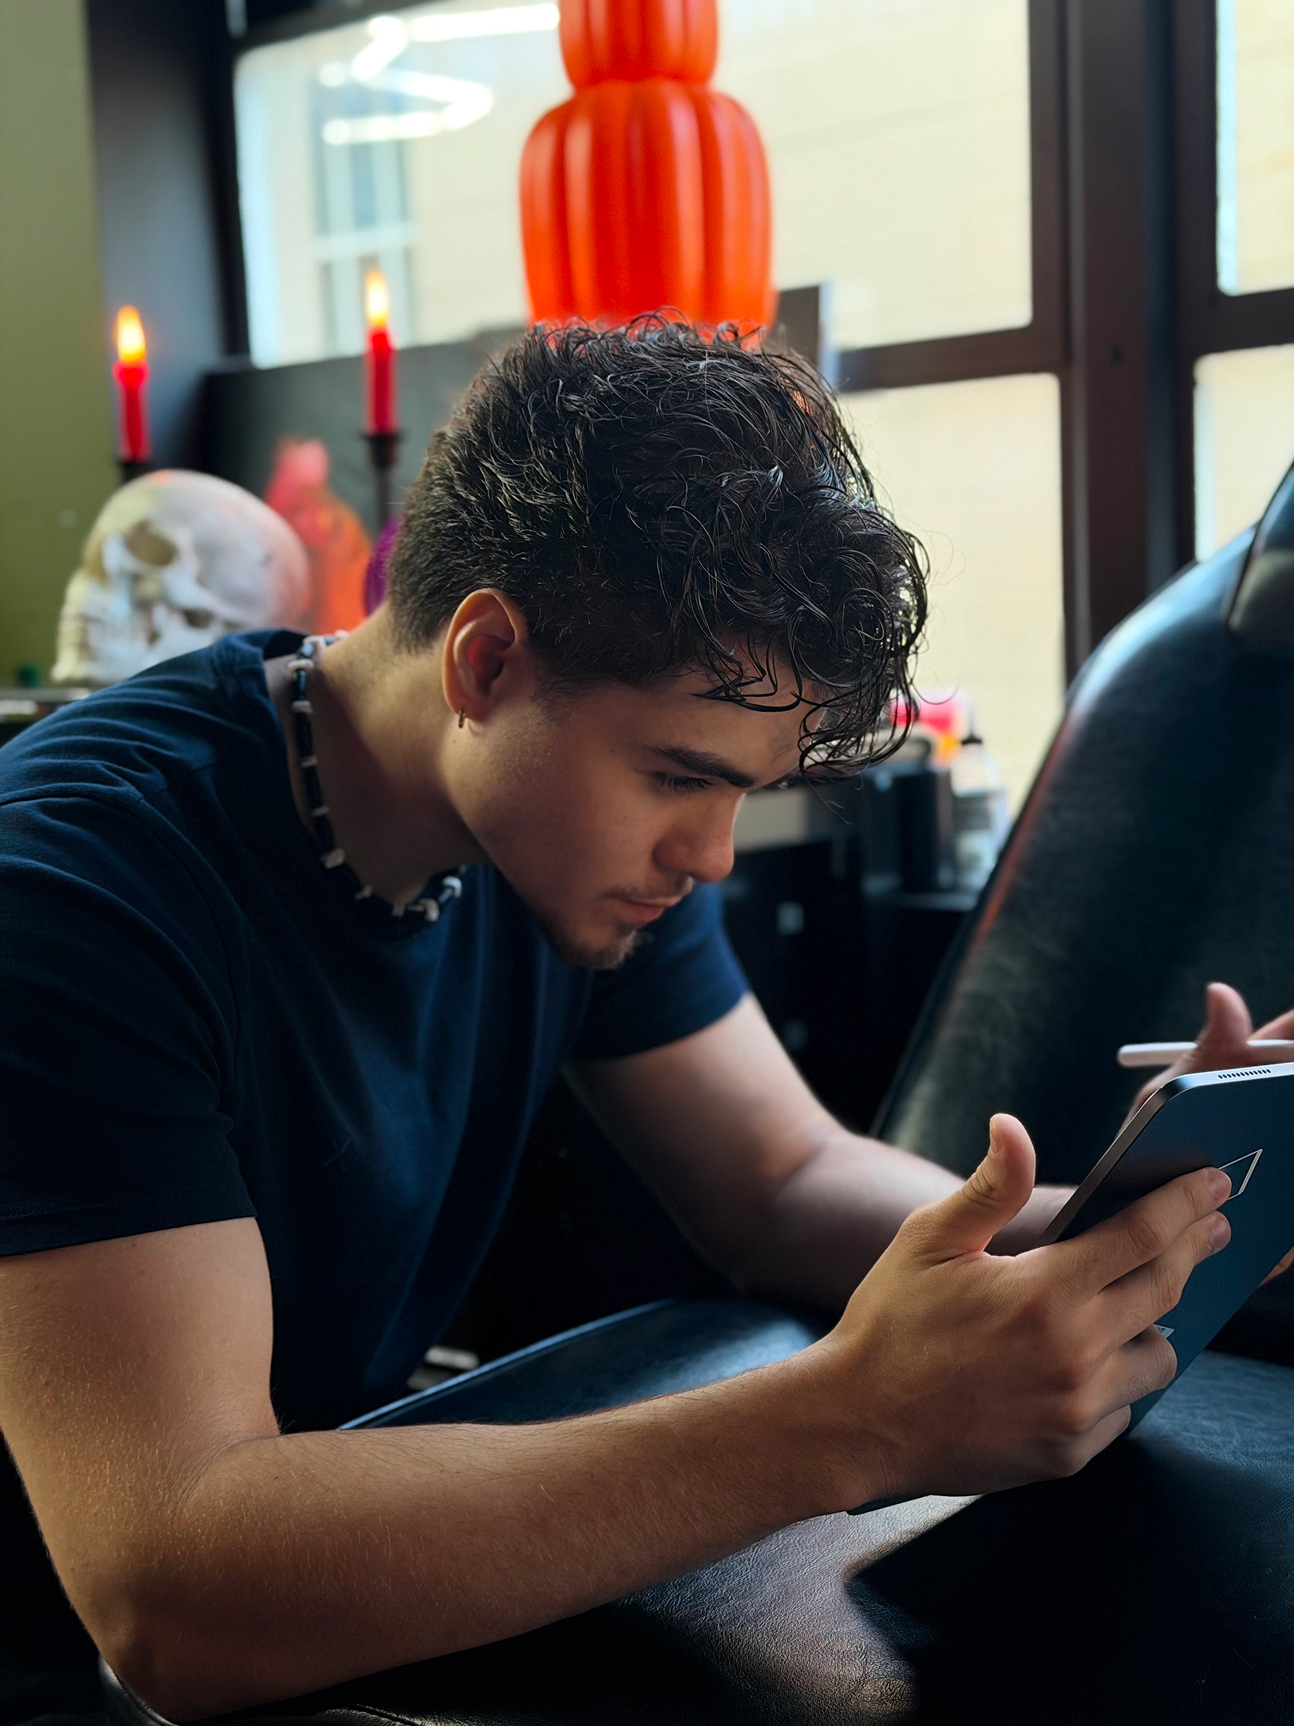
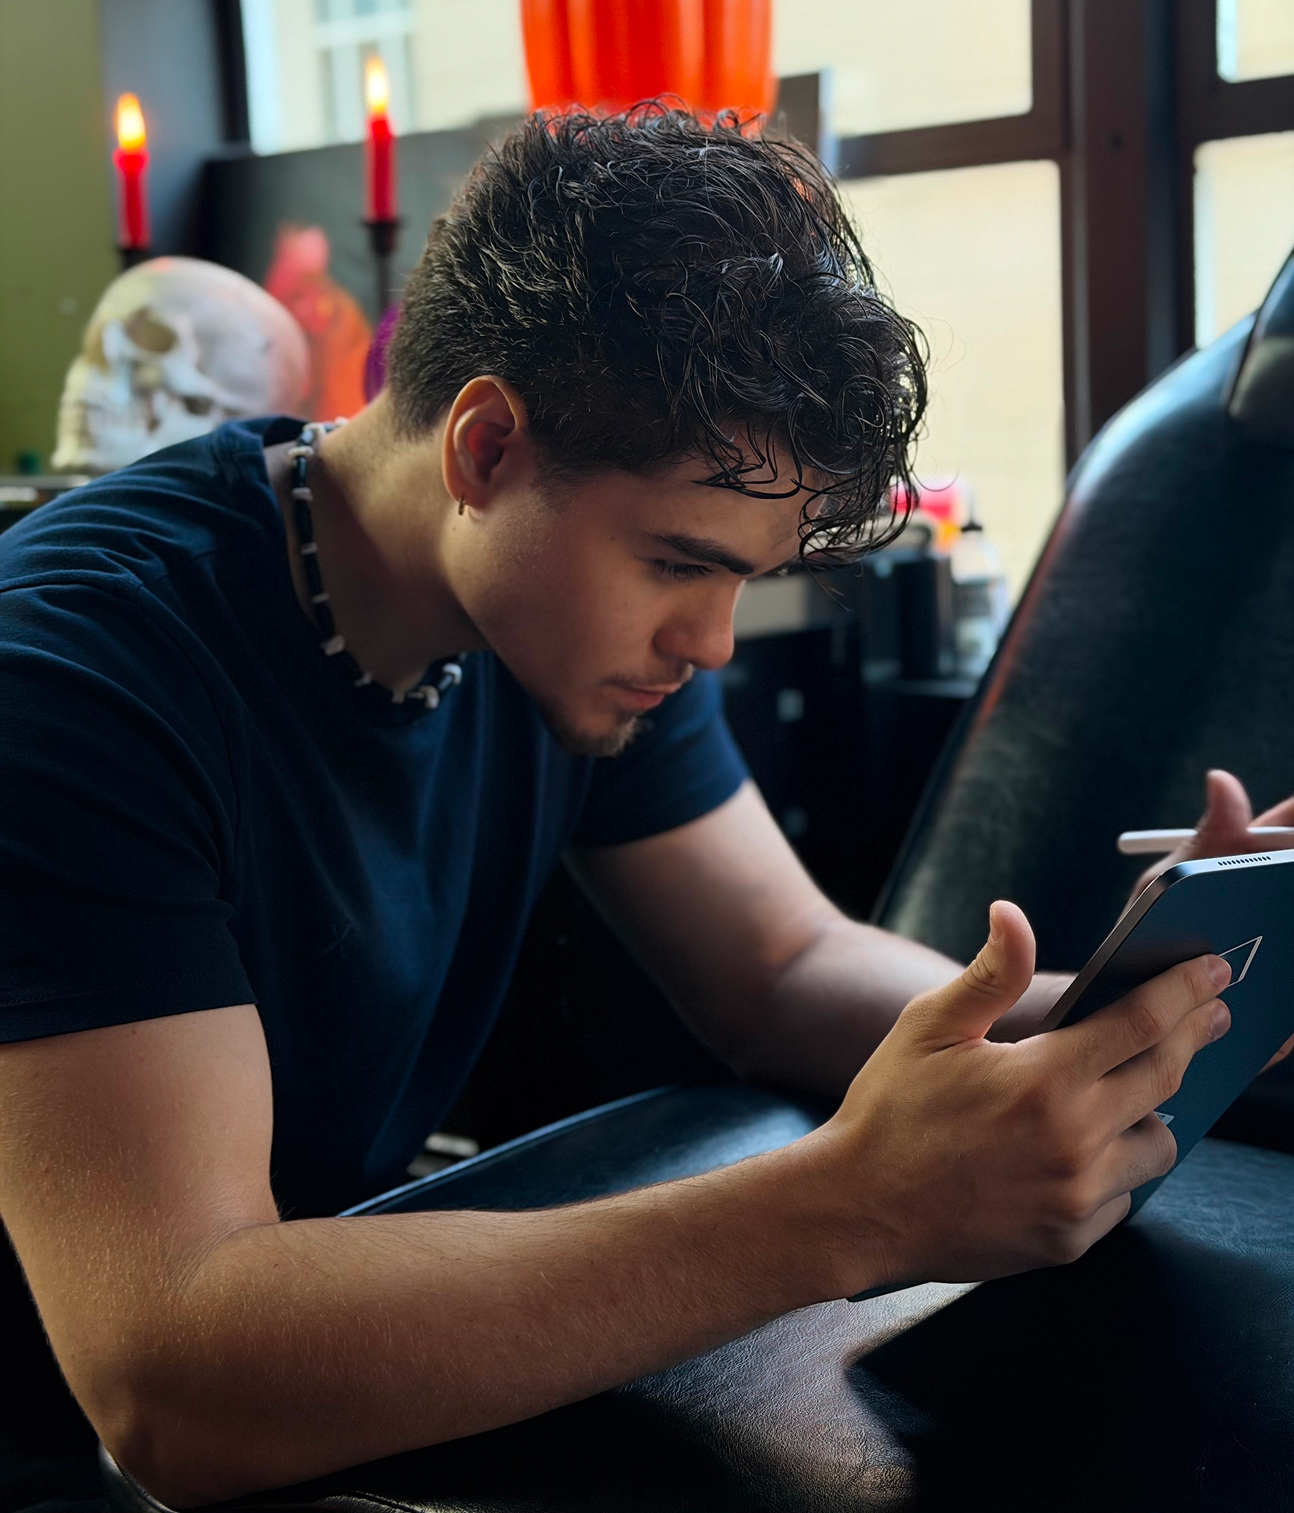
added what the platform is made for section

diff --git a/index.html b/index.html
@@ -127,17 +127,154 @@
 
           <p class="sub-heading centered-text">Each artist featured has been carefully chosen for their style, experience, and commitment to quality.</p>
 
-          <div class="featured-artist-wrapper">
+          <div class="featured-artists-wrapper">
+            <div class="artist-box special-box">
+              <div class="artist-left-section">
+
+                <div class="artist-image-name">
+                  <figure class="artist-img-wrapper">
+                    <img src="artists/jeju-artist-img.webp" alt="photo of Jeju, tattoo artist">
+                  </figure>
+                  
+                  <div class="name-container">
+                    <p class="artist-name">JEJU</p>
+                    <p class="location">Rockville, MD</p>
+                  </div>
+                </div>
+
+                <p class="artist-bio">Black & grey and color realism tattoos designed with precision and intention.</p>
+              </div>
+
+              <div class="artist-bottom-section"> 
+                <p class="style-tag">[black / grey realism] [color realism]</p>
+
+                <a href="#" class="CTA-button CTA-button-accent">View Artist</a>
+              </div>
+
+              <div class="card-showcase-container">
+                <figure class="card-img-wrapper">
+                  <img src="tattoos/jeju-peach.webp" alt="peach colored tattoo by Jeju">
+                </figure>
+
+                <figure class="card-img-wrapper">
+                  <img src="tattoos/jeju-flowers.webp" alt="flowers tattoo by Jeju">
+                </figure>
+              </div>
+            </div>
+
             <div class="artist-box">
-              <figure class="artist-img-wrapper">
-                <img src="Artists/" alt="photo of Jeju, tattoo artist">
-              </figure>
+              <div class="artist-left-section">
+
+                <div class="artist-image-name">
+                  <figure class="artist-img-wrapper">
+                    <img src="artists/jdiaz-artist-img.webp" alt="photo of Jdiaz, tattoo artist">
+                  </figure>
+                  
+                  <div class="name-container">
+                    <p class="artist-name">JDAIZ</p>
+                    <p class="location">Rockville, MD</p>
+                  </div>
+                </div>
+
+                <p class="artist-bio">Black & grey and color realism tattoos designed with precision and intention.</p>
+              </div>
+
+              <div class="artist-bottom-section"> 
+                <p class="style-tag">[black / grey realism] [color realism]</p>
+
+                <a href="#" class="CTA-button CTA-button-accent">View Artist</a>
+              </div>
+
+               <div class="card-showcase-container">
+                <figure class="card-img-wrapper">
+                  <img src="tattoos/jdiaz-dragon.webp" alt="dragon full color tattoo by Jdiaz">
+                </figure>
+                
+                <figure class="card-img-wrapper">
+                  <img src="tattoos/jdiaz-full-leg.webp" alt="full leg colored tattoo by Jdiaz">
+                </figure>
+              </div>
+            </div>
+
+            <div class="artist-box">
+              <div class="artist-left-section">
+
+                <div class="artist-image-name">
+                  <figure class="artist-img-wrapper">
+                    <img src="artists/randy-artist-img.webp" alt="photo of Randy, tattoo artist">
+                  </figure>
+                  
+                  <div class="name-container">
+                    <p class="artist-name">RANDY</p>
+                    <p class="location">Rockville, MD</p>
+                  </div>
+                </div>
+
+                <p class="artist-bio">Black & grey and color realism tattoos designed with precision and intention.</p>
+              </div>
+
+              <div class="artist-bottom-section"> 
+                <p class="style-tag">[black / grey realism] [color realism]</p>
+
+                <a href="#" class="CTA-button CTA-button-accent">View Artist</a>
+              </div>
+
+               <div class="card-showcase-container">
+                <figure class="card-img-wrapper">
+                  <img src="tattoos/randy-koy-fish.webp" alt="koy fish tattoo by Randy">
+                </figure>
+                
+                <figure class="card-img-wrapper">
+                  <img src="tattoos/randy-whale.webp" alt="Whale and wave tattoo by Randy.">
+                </figure>
+              </div>
             </div>
           </div>
         </div>
       </div>
     </section>
 
+    <section id="the-platform">
+      <div class="container">
+        <div class="row">
+          <h2 class="heading platform-heading">A more intentional way to find your artist.</h2>
+
+          <div class="platform-card-container">
+            <div class="card-box">
+              <h3 class="card-title">Explore the roster</h3>
+
+              <p class="card-info">
+                Browse a curated group of artists with distinct styles and specialties.
+              </p>
+
+              <p class="card-number">01</p>
+            </div>
+
+            <div class="card-box">
+              <h3 class="card-title">Find the right fit</h3>
+
+              <p class="card-info">
+                Compare artistic direction, strengths, and visual identity.
+              </p>
+
+              <p class="card-number">02</p>
+            </div>
+
+            <div class="card-box">
+              <h3 class="card-title">Move forward with confidence</h3>
+
+              <p class="card-info">
+                Submit your project and connect with the right artist.
+              </p>
+
+              <p class="card-number">03</p>
+            </div>
+          </div>
+
+          <p class="why-platform">This platform is designed to match clients with artists whose style and approach align from the beginning.</p>
+        </div>
+      </div>
+    </section>
 
   </main>
 

diff --git a/style.css b/style.css
@@ -15,8 +15,13 @@ li, a {
   color: inherit;
 }
 
+img {
+  display: block;
+}
+
 .container {
   padding: 4rem 0;
+  margin-top: 8px;
 }
 
 .row {
@@ -29,9 +34,10 @@ li, a {
 :root {
   --background-black: #333333;
   --accent-color: #F5EDA7;
-  --grey-accent: #8A8A8A;
+  --grey-accent: #a9a9a9;
   --white: #fff;
   --black: #000;
+  --artist-card-background: #F2F2F2;
 }
 
 .dark-highlight {
@@ -62,6 +68,7 @@ li, a {
 
 .CTA-button-accent {
   background-color: var(--accent-color);
+  color: var(--black);
 }
 
 .CTA-button-secondary {
@@ -74,7 +81,7 @@ li, a {
 nav {
   position: fixed;
   z-index: 100;
-  top: 8px;
+  top: 0;
   left: 0;
   right: 0;
   width: 100%;
@@ -83,6 +90,7 @@ nav {
   justify-content: center;
   padding: 24px;
   color: var(--white);
+  background-color: var(--background-black);
 }
 
 .nav-container {
@@ -126,7 +134,6 @@ nav {
   height: 350px; /* Adjust image size */
   object-fit: cover;
   width: auto;
-  display: block;
   border-radius: 8px;
   transition: transform 300ms ease;
 }
@@ -200,5 +207,169 @@ nav {
   display: flex;
   flex-direction: column;
   align-items: center;
+}
+
+.featured-artists-wrapper {
+  margin-top: 80px;
+  width: 100%;
+
+  display: grid;
+  grid-template-columns: repeat(2, 1fr);
+  gap: 16px;
+}
+
+.artist-image-name {
+  display: flex;
+  align-items: flex-start;
+  gap: 8px;
+}
+
+.artist-box {
+  position: relative;
+  width: 100%;
+  padding: 8px;
+  background-color: var(--artist-card-background);
+  border: 1px solid var(--grey-accent);
+  border-radius: 4px;
+}
+
+.artist-box .artist-bottom-section {
+  border-top: 1px solid var(--grey-accent);
+}
+
+.location {
+  color: var(--grey-accent);
+  font-weight: 300;
+}
+
+.special-box {
+  background-color: var(--background-black);
+  color: var(--white);
+}
+
+.special-box .location {
+  color: var(--grey-accent);
+}
+
+.special-box .artist-bottom-section {
+  border-top: 1px solid var(--artist-card-background);
+}
+
+.artist-img-wrapper {
+  width: 80px;
+  height: 80px;
+  overflow: hidden;
+  border-radius: 4px;
+}
+
+.artist-img-wrapper img {
+  width: 100%;
+}
+
+.artist-name {
+  font-size: 32px;
+  margin-bottom: 4px;
+}
+
+.artist-bio {
+  margin-top: 8px;
+  width: 275px;
+}
+
+.artist-left-section {
+  display: flex;
+  flex-direction: column; 
+}
+
+.artist-bottom-section {
+  margin-top: 48px;
+  padding: 8px 0 0 0;
+
+  display: flex;
+  align-items: center;
+  justify-content: space-between;
+}
+
+.style-tag {
+  color: var(--grey-accent);
+}
+
+.card-showcase-container {
+  position: absolute;
+  top: 8px;
+  right: 8px;
+
+  display: flex;
+  align-items: center;
+  gap: 8px;
+  height: 180px;
+}
+
+.card-img-wrapper {
+  width: 160px;
+  height: 180px;
+  overflow: hidden;
+  border-radius: 4px;
+}
+
+.card-img-wrapper img {
+  width: 100%;
+}
+
+
+/* PLATFORM */
+#the-platform {
+  background-color: var(--background-black);
+}
+
+.platform-heading {
+  width: 600px;
+  color: var(--white);
+}
+
+.platform-card-container {
+  margin: 80px 0;
+  display: grid;
+  grid-template-columns: repeat(3, 1fr);
+  gap: 16px;
+}
+
+.card-box {
+  position: relative;
+  background-color: var(--accent-color);
+  padding: 16px;
+  border-radius: 8px;
+
+  display: flex;
+  flex-direction: column;
+  gap: 120px;
+}
+
+.card-title {
+  font-weight: 300;
+}
+
+.card-info {
+  width: 250px;
+  font-size: 14px;
+}
+
+.card-number {
+  position: absolute;
+  font-size: 120px;
+  bottom: 0;
+  right: 24px;
+  filter: blur(10px);
+  transition: filter 300ms ease;
+}
+
+.card-box:hover .card-number {
+  cursor: default;
+  filter: blur(0px);
+}
+
+.why-platform {
+  color: var(--white);
+  width: 300px;
 }
 
